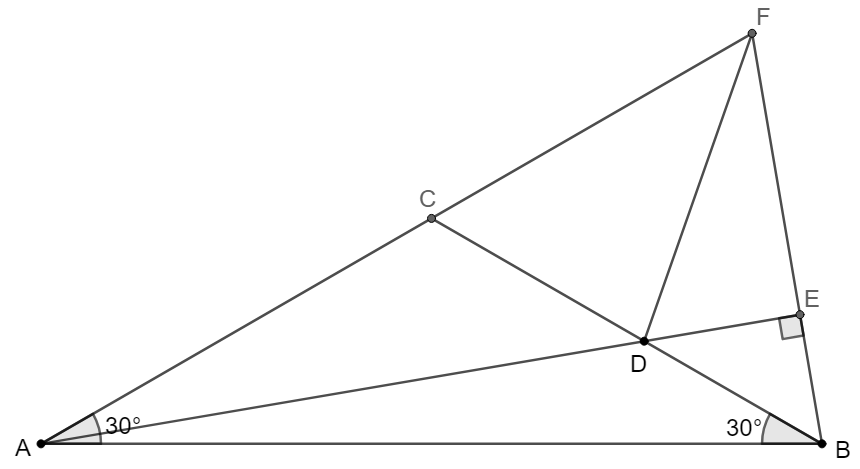
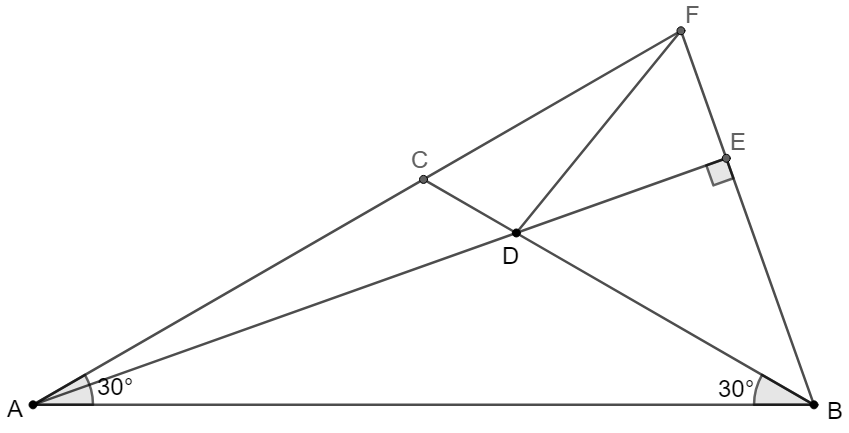
revise diagram

diff --git a/_posts/2023-12-04-wo.md b/_posts/2023-12-04-wo.md
@@ -123,11 +123,11 @@ $$
 
 #### $\angle{CAB}=\angle{ABC}=30^{\circ}$ in $\triangle{ABC}$. $D$ is a point on side $BC$ and $E$ is on extended $AD$ such that $AE\perp BE$. Extended $AC, BE$ intercept at $F$. Prove that $\angle{CDF}=2\angle{ADC}, AC+CD=CF+DF$
 
-![image-20231215192048081](/assets/images/2023/image-20231215192048081.png)
+![image-20231216042550271](/assets/images/2023/image-20231215192048081.png)
 
 **Prove:**
 
-![image-20231216042058091](/assets/images/2023/image-20231216030724784.png)
+![image-20231216042429270](/assets/images/2023/image-20231216030724784.png)
 $$
 \begin{multline}\nonumber
 \shoveleft \text{Make } CH \text{ bisect } \angle{ACB} \text{ and } CH=CF, CH\cap AB=G\\
